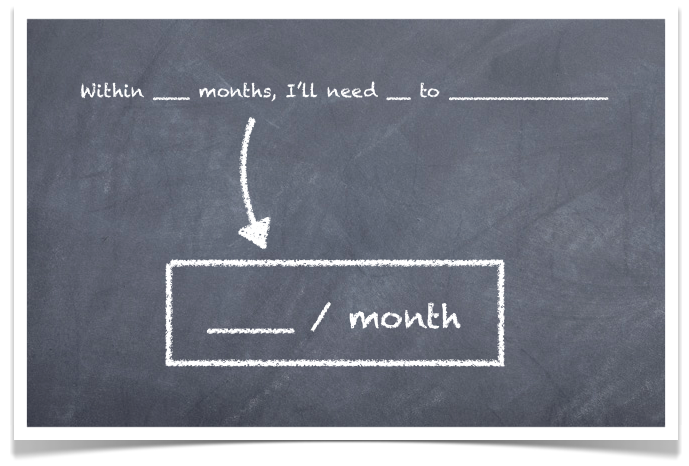
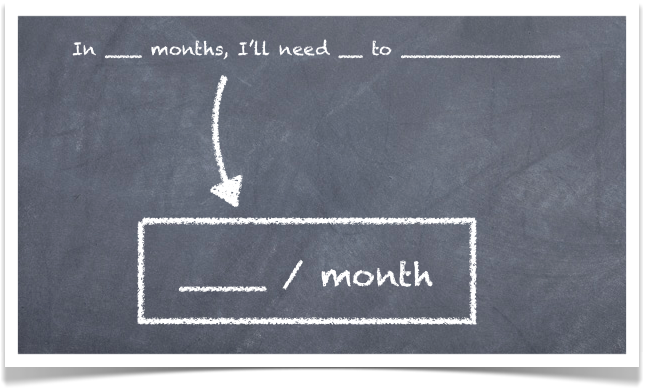
Traduction du site : page 'guide'

diff --git a/picsou/picsou/website/en/content/why.html b/picsou/picsou/website/en/content/why.html
@@ -1,50 +1,55 @@
-<h1 class="multiline">Comment bien gérer son budget familial</h1>
+<h1 class="multiline">Managing a family budget</h1>
 
 <div id="why" class="light-block full-separators">
 
   <table class="columns">
     <tr>
       <td class="left" width="20%" rowspan="2">
-        <img src="/files/images/why/projets.png" alt="Vos projets: logement, voyages, etc." width="270"
+        <img src="/files/images/why/projets.png" alt="Your projects: housing, trips, etc." width="270"
              height="490"/>
       </td>
       <td class="center" colspan="2" style="margin-right: 0">
-        <h3 style="text-align:justify">Avez-vous une vision claire de vos finances? Mettez-vous assez d'argent de
-          côté pour réaliser vos projets?</h3>
+        <h3 style="text-align:justify">
+          Do you have a clear picture of your finances? Do you manage to master your spending
+          to realize your most important projects?</h3>
       </td>
     </tr>
     <tr>
       <td class="center" width="40%">
-        <p>Si vous faites comme la plupart de nos amis, vous vous contentez peut-être de jeter un oeil de
-          temps à autre à vos relevés de comptes pour éviter les découverts ou
-          vérifier qu’aucune opération suspecte n’apparaît. </p>
-        <p>Marc et moi avons suivi cette approche pendant des années, avant de finir par comprendre ses limites.
-          Les mois passaient, et malgré l’augmentation de nos revenus nous terminions chaque mois sans rien pouvoir
-          mettre de côté&nbsp;- au détriment de projets importants pour nous: logement, voyages, etc.</p>
-        <p><b>Où passait donc notre argent?</b> Il nous était bien difficile de le savoir.</p>
-        <p>Il faut dire que faire ses comptes n’a jamais été une partie de plaisir. Comment en effet y voir clair dans
-          les longs listings d’opérations que nous envoie la banque chaque mois? Et dans les tableaux présentés
-          sur son site internet? Et ce n’est guère mieux avec les logiciels de gestion de comptes habituels, qui
-          restent basés sur ces listings arides et l'analyse du passé.</p>
+        <p>
+          If you do like most of our friends, you just have a look from time to time
+          to you bank reports to avoid overdraws and check that no suspect transaction appears on
+          your accounts.</p>
+        <p>
+          We both followed this approach for years, until we realized its limits: months
+          were passing by, and despite a few salary increases we were ending up each month with nothing
+          left on our accounts. As a result, we couldn't realize a few projects that were important
+          for us: buying a house, going on trips, etc.</p>
+        <p><b>Where was our money going?</b> It was very difficult for us to know.</p>
+        <p>
+          To tell the truth, managing one's accounts has never been funny. How can one see anything in the
+          long listings of transactions the banks sends us every months, or those displayed on its website?
+          And it's not really better with most money management software, still based on the same long lists of
+          transactions.</p>
       </td>
       <td class="right" width="40%">
-        <p>Il y a quelques années, nous nous sommes dit que si nous pouvions avoir une vision claire de notre budget,
-          et si nous pouvions facilement anticiper nos dépenses dans les semaines ou les mois à venir, nous pourrions
-          <b>maîtriser nos dépenses plutôt que de les subir</b>.</p>
-        <p>Nous nous sommes donc lancés dans deux explorations complémentaires:</p>
+        <p>
+          A few years ago, we realized that if we could have a clear picture of our budget, and if we could
+          anticipate its evolution in the following weeks or months, we could
+          <b>master our spending instead of just suffering its consequences</b>.</p>
+
+        <p>We thus started two complementary experiments:</p>
         <ul>
-          <li>D’un côté, nous avons commencé à concevoir le logiciel BudgetView pour y voir clair dans notre budget tout
-            en
-            évitant les manipulations fastidieuses.</li>
-          <li>De l’autre, nous avons cherché à trouver, dans la litterature et dans de nombreuses discussions, les
-            grands
-            principes de la bonne gestion d’un budget familial.</li>
+          <li>We started designing and developing the BudgetView application to get a clear vision
+            of our budget with the less tedious manipulations.</li>
+          <li>We started reading books, browsing articles and talking with people around us, looking for
+            for the main principles of personal finance management.</li>
         </ul>
 
-        <p>Voici ce que nous avons appris:</p>
+        <p>Here is what we learned:</p>
 
         <div class="centered" style="margin-top: 20px;">
-          <img src="/files/images/why/arrow_down.png" alt="Continuer" width="71" height="23"/>
+          <img src="/files/images/why/arrow_down.png" alt="Continue" width="71" height="23"/>
         </div>
 
       </td>
@@ -52,79 +57,80 @@
   </table>
 
 
-  <h2>Partez de la vision: votre projet</h2>
+  <h2>Start from the vision: your project</h2>
 
   <div class="why-block">
 
     <table id="projects">
       <tr>
         <td class="left">
-          <p>A quoi bon s’imposer une discipline ou une contrainte? Qu’est-ce qui justifierait vraiment de faire
-            des
-            efforts
-            ? </p>
-          <p><b>Pensez à vos propres projets.</b> Qu’aimeriez-vous faire? Partir en voyage au bout du monde?
-            Installer un jacuzzi dans votre sous-sol?
-            Acheter un ensemble home cinéma dernier cri? Constituer une réserve d’argent pour
-            faire face tranquillement à d’éventuelles adversités? Préparer votre retraite?</p>
-          <p>Prenez le temps d’y réfléchir sérieusement, d’en parler avec votre conjoint - après tout,
-            pourquoi gérer votre budget si vous n’avez aucun but?</p>
+          <p>
+            Why would you accept additional constraints in your spending, if it's not to reach a goal that is
+            really important for you?</p>
+          <p><b>Think about your own projects.</b> What would you like to do? Go on a trip to the end of the world?
+            Install a jacuzzi in your basement? Buy the latest home cinema installation?
+            Reinforce your savings to be able to face any unexpected situation in the future? Prepare for retirement?
+            Save for your daughter's college?
+          </p>
+          <p>Take time to think about it seriously, to talk about it with your spouse - after all, why spend time
+            managing your budget if you have no goal?</p>
         </td>
         <td class="right">
-          <img src="/files/images/why/projects_home.png" alt="Vos projets" width="271" height="199"/>
+          <img src="/files/images/why/projects_home.png" alt="Your projects" width="271" height="199"/>
         </td>
       </tr>
     </table>
   </div>
 
 
-  <h2>Formulez votre projet clairement </h2>
+  <h2>State your project clearly</h2>
 
   <div id="project-definition" class="why-block">
 
-    <p>D’un point de vue budgétaire, vous devez pouvoir exprimer votre projet sous la forme suivante: </p>
+    <p>
+      From a budgeting point of view, you should be able to define your project as follows:</p>
     <div id="project-definition-intro" class="project-definition">
-      <p>“Dans ___ mois, il me faut _____€ pour ___________________________” </p>
+      <p>“In ___ months, I need _____ to ___________________________” </p>
     </div>
-    <p>Ensuite, en divisant le montant souhaité par le nombre de mois vous obtenez le montant qu’il vous
-      faut mettre de côté chaque mois pour réaliser votre projet.</p>
-    <p>Voici quelques exemples: </p>
+    <p>Then, by dividing the expected amount by the number of months, you will get the amount you need
+      to save each month to reach your goal.</p>
+    <p>Here are a few examples:</p>
 
     <table id="project-definition-examples">
       <tr>
         <td class="left">
-          <p>“Dans 18 mois, il me faut 3600€ pour faire le tour de l’Argentine.”</p>
+          <p>“In 18 months, I need 3600$ for my trip across Argentina.”</p>
         </td>
         <td class="right">
-          <p>200€/mois</p>
+          <p>200$/month</p>
         </td>
       </tr>
       <tr>
         <td class="left">
-          <p>“Dans 6 mois, il me faut 900€ pour remplacer le mobilier de ma cuisine."</p>
+          <p>“In 6 months, I need 900$ to replace the old furniture in my kitchen."</p>
         </td>
         <td class="right">
-          <p>150€/mois</p>
+          <p>150$/month</p>
         </td>
       </tr>
       <tr>
         <td class="left">
-          <p>“Dans 12 mois, il me faut 1000€ de côté pour faire face aux imprévus.”</p>
+          <p>“In 12 months, I need 1000$ in my savings accounts to be able to face any unexpected event.”</p>
         </td>
         <td class="right">
-          <p>85€/mois</p>
+          <p>85$/month</p>
         </td>
       </tr>
     </table>
 
-    <p>Chacun ses projets, à vous de trouver le votre!</p>
+    <p>What is your own project?</p>
     <div id="project-definition-try">
-      <img src="/files/images/why/project_definition.png" alt="Définissez votre projet" width="685" height="400"/>
+      <img src="/files/images/why/project_definition.png" alt="Define your budget" width="645" height="391"/>
     </div>
 
   </div>
 
-  <h2>Payez-vous d’abord !</h2>
+  <h2>Pay yourself first!</h2>
 
   <div class="why-block">
 
@@ -134,33 +140,35 @@
           <img src="/files/images/why/savings.png" alt="Vos projets" width="260" height="195"/>
         </td>
         <td class="right">
-          <p>Le moyen le plus efficace pour atteindre vos objectifs consiste ensuite à demander à votre banque de
-            <b>virer automatiquement chaque mois ce montant sur un compte d’épargne</b>,
-            de préférence en début de mois. </p>
-          <p>Cela suppose bien entendu que vous disposiez d’un compte d’épargne. Si ce n’est pas le cas, nous vous
-            recommandons
-            d’en ouvrir un rapidement plutôt que de laisser de l’argent s’accumuler sur votre compte.</p>
-          <p>Une fois votre argent ainsi mis “en sécurité” en début de mois, vous serez moins tenté de le dépenser!
-            Vous pouvez alors commencer à gérer votre budget plus finement.</p>
+          <p>
+            The most efficient way for you to reach your goals is then to ask your bank to
+            <b>transfer this amount automatically at the beginning of each month</b>. If you don't
+            have already one, we recommend that you open a savings account to do this.</p>
+          <p>
+            Putting you money in a "safe place" like this will help you fight the temptation to spend it! You can
+            then start managing your budget more precisely.</p>
         </td>
       </tr>
     </table>
   </div>
 
-  <h2>Maîtrisez votre budget</h2>
+  <h2>Master your budget</h2>
 
   <div id="budget" class="why-block">
 
     <table>
       <tr>
         <td class="left">
-          <p>Ce virement automatique a pour principal intérêt de <b>mettre votre budget sous tension</b>:
-            vous devez maintenant faire davantage attention pour ne pas être débiteur en fin de mois.</p>
-          <p>C'est là que BudgetView prend tout son sens. Pour éviter tout découvert, vous définissez
-            dès le début du mois les <i>enveloppes</i> de revenus et de dépenses qui composent votre budget - revenus,
-            courses, loisirs, etc.</p>
-          <p>Vous réglez ensuite les montants prévus de vos enveloppes de telle sorte que le solde de vos comptes
-            courants ne passe jamais en négatif dans l'estimation que vous propose BudgetView:</p>
+          <p>
+            The main consequence of this automatic transfer is that <b>your budget is now a little tighter</b>.
+            You now have to monitor it a little closer to avoid any overdraw at the end of the month.</p>
+          <p>
+            This is where BudgetView shines. To avoid being in the red, you define at the beginning of
+            the month the  revenue and spendings <i>envelopes</i> that constitute your budget:
+            salary, groceries, leisures, etc.</p>
+          <p>
+            You then set the planned amounts for your envelopes so that the balance of your accounts never
+            become negative in the estimation computed by the application:</p>
           <div class="centered" style="margin-top: 10px;">
             <img src="/files/images/why/arrow_down.png" alt="Continuer" width="71" height="23"/>
           </div>
@@ -175,21 +183,25 @@
       <img src="/files/images/why/reglage_budget.png" alt="Réglage de votre budget"/>
     </div>
 
-    <p>Ensuite, vous vérifiez chaque semaine que vous tenez bien vos estimations. En cas de dépassement sur une
-      enveloppe, vous ajustez vos autres enveloppes pour éviter tout découvert tout en préservant votre épargne.</p>
-    <p>Après quelques semaines, lorsque vous êtes à l'aise avec ce suivi, vous pouvez commencer à affiner votre
-      budget pour les mois à venir et mieux anticiper encore l'évolution de vos finances. </p>
-    <p>Voilà, vous êtes sur la bonne voie pour réaliser vos projets!</p>
+    <p>
+      After that, you check every week that your budget is in line with your plan. In case of an overrun on an
+      envelope, you can adjust other envelopes to avoid any overdraw - without compromising the money you set
+      aside for your project.</p>
+    <p>
+      After a few weeks, when you are comfortable with the monitoring of your budget, you can start
+      working on your budget for the next few months to anticipate the evolution of your finances.</p>
+
+    <p>Voilà! You are now on track to realize your projects!</p>
 
   </div>
 
   <div id="close">
-    <p>Alors, qu'attendez-vous ?</p>
+    <p>So what are you waiting for?</p>
     <a href="/telechargement">
-      <img src="files/images/front/try_button.png" alt="Essayez maintenant !"
+      <img src="files/images/front/try_button.png" alt="Try now!"
            width="248" height="65"/>
     </a>
-    <p id="close-trial">Essai 45 jours gratuit et anonyme</p>
+    <p id="close-trial">Free and anonymous 45-day trial</p>
   </div>
 
 </div>

diff --git a/picsou/picsou/website/fr/content/guide.html b/picsou/picsou/website/fr/content/guide.html
@@ -9,8 +9,10 @@
              height="490"/>
       </td>
       <td class="center" colspan="2" style="margin-right: 0">
-        <h3 style="text-align:justify">Avez-vous une vision claire de vos finances&nbsp;? Mettez-vous assez d'argent de
-          côté pour réaliser vos projets&nbsp;?</h3>
+        <h3 style="text-align:justify">
+          Avez-vous une vision claire de vos finances&nbsp;?
+          Arrivez-vous à contrôler votre budget pour
+          réaliser les projets qui vous tiennent à coeur&nbsp;?</h3>
       </td>
     </tr>
     <tr>
@@ -18,7 +20,7 @@
         <p>Si vous faites comme la plupart de nos amis, vous vous contentez peut-être de jeter un oeil de
           temps à autre à vos relevés de comptes pour éviter les découverts ou
           vérifier qu’aucune opération suspecte n’apparaît. </p>
-        <p>Marc et moi avons suivi cette approche pendant des années, avant de finir par comprendre ses limites.
+        <p>Nous avons suivi cette approche pendant des années, avant de finir par comprendre ses limites.
           Les mois passaient, et malgré l’augmentation de nos revenus nous terminions chaque mois sans parvenir à
           libérer suffisamment d'argent pour réaliser les projets qui nous tenaient à coeur&nbsp;: logement, voyages,
           épargne, etc.</p>

diff --git a/picsou/picsou/website/en/sites_all_themes/mybudgetview/mycss/mybudgetview.css b/picsou/picsou/website/en/sites_all_themes/mybudgetview/mycss/mybudgetview.css
@@ -39,6 +39,10 @@ body, caption, th, td, input, textarea, select, option, legend, fieldset {
   padding-top: 15px;
 }
 
+div#skip-link {
+  display: none;
+}
+
 /* ========== GENERAL STYLES ========== */
 
 h1 {

diff --git a/picsou/picsou/website/en/content/comingsoon.html b/picsou/picsou/website/en/content/comingsoon.html
@@ -1,0 +1,5 @@
+<html>
+<body>
+<p>Coming soon</p>
+</body>
+</html>
